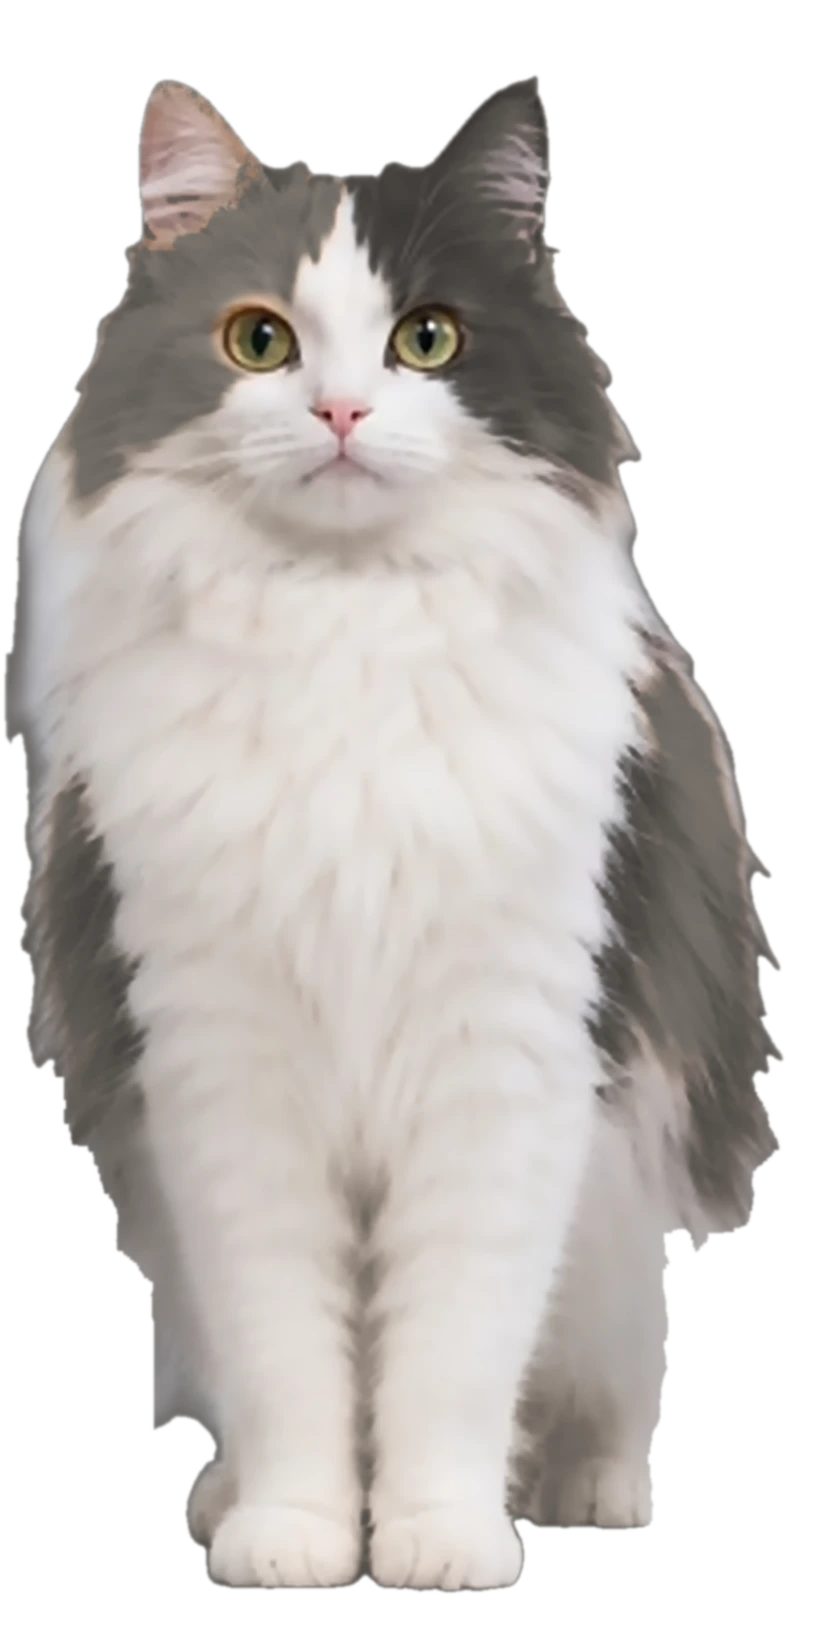
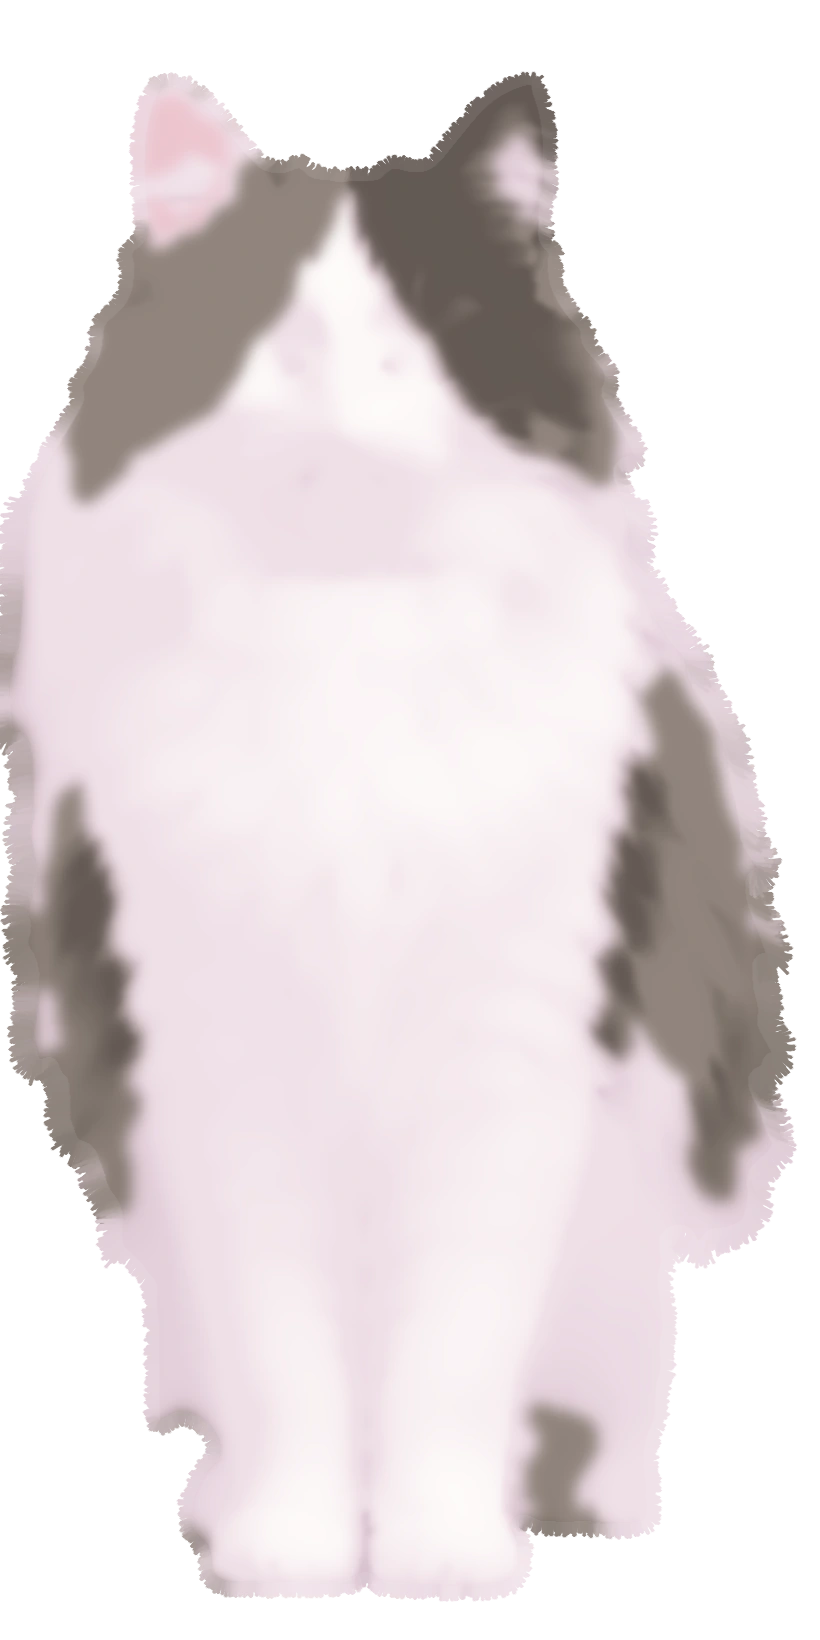
Playground: Ana in Tororo's painting style built from the reference's body and markings, Tororo Live2D face parts, side-swept fluffy tail
Claude-Session: https://claude.ai/code/session_01W4x6f7KtFbhsBZfqVxHVQA

diff --git a/william/tpl.html b/william/tpl.html
@@ -729,8 +729,15 @@ function anaH() { return catH * (stacked ? 1.0 : 1.3); }
 // 絵の座標（820×1640）：足もと (330, 1600)、首 (340, 600)、顔のまん中 (340, 365)、目 (258, 335) (425, 335)、口 (340, 452)、耳のつけ根 (190, 235) (500, 235)
 async function loadAna(app, william) {
 	try {
-		while (ANA.n < 1) await new Promise((r) => setTimeout(r, 100));
-		const im = ANA.img.ref, mesh = new PIXI.SimplePlane(PIXI.Texture.from(im), 21, 41), root = new PIXI.Container(); root.pivot.set(330, 1600); root.addChild(mesh);
+		while (ANA.n < 2) await new Promise((r) => setTimeout(r, 100));
+		const im = ANA.img.ref, mesh = new PIXI.SimplePlane(PIXI.Texture.from(im), 21, 41), root = new PIXI.Container(); root.pivot.set(330, 1600);
+		// しっぽ：Tororo と同じく 体のうしろから 横へ。べつの絵（ana_tail.webp）を 体のうしろに置き、網目を曲げて ゆらす
+		const tail = new PIXI.SimplePlane(PIXI.Texture.from(ANA.img.tail), 26, 2); tail.scale.set(0.78); tail.position.set(300 - 860 * 0.78, 1520 - 400 * 0.78); ANA.tailV = Float32Array.from(tail.geometry.getBuffer('aVertexPosition').data);
+		// 顔の部品（目・まぶた・目玉・口・舌・歯・鼻・ひげ）は Tororo と同じ Live2D の仕組み（public/w/ana.model3.json）
+		const face = await PIXI.live2d.Live2DModel.from('w/ana.model3.json', { autoInteract: false });
+		face.internalModel.motionManager.groups.idle = '__none__'; face.internalModel.on('beforeModelUpdate', () => anaParams(face.internalModel.coreModel));
+		face.pivot.set(ANA_FACE.em[0], ANA_FACE.em[1]); face.scale.set(ANA_FACE.s);
+		root.addChild(tail, mesh, face); Object.assign(ANA, { tail, face });
 		ANA.v0 = Float32Array.from(mesh.geometry.getBuffer('aVertexPosition').data);
 		// まぶたの色：目のすぐ上の毛の色を 絵から取る
 		const cv = document.createElement('canvas'); cv.width = im.width; cv.height = im.height; const cx = cv.getContext('2d'); cx.drawImage(im, 0, 0);
@@ -740,6 +747,14 @@ async function loadAna(app, william) {
 	} catch (e) { console.error(e); }
 }
 const sst = (a, b, v) => { const t = Math.max(0, Math.min(1, (v - a) / (b - a))); return t * t * (3 - 2 * t); };
+const ANA_FACE = { s: 0.80, em: [993, 755], ea: [341, 345] };  // 顔の部品の大きさ、Tororo の両目のまん中（モデル上）、絵の両目のまん中（make_face_tex.py と同じ）
+function anaParams(c) {
+	const P = ANA.P; if (!P) return; const set = (id, v) => c.setParameterValueById(id, v), add = (id, v) => c.addParameterValueById(id, v);
+	const eye = Math.max(0, 0.9 * (1 - P.lid) + P.up * 0.1); set('PARAM_EYE_L_OPEN', eye); set('PARAM_EYE_R_OPEN', eye);
+	set('PARAM_EYE_BALL_X', P.lx); set('PARAM_EYE_BALL_Y', -P.ly); add('PARAM_ANGLE_X', P.lx * 12); add('PARAM_ANGLE_Y', -P.ly * 9 + P.up * 6);
+	if (P.dip > 0.05) { set('PARAM_MOUTH_OPEN_Y', 0.08 + P.chew * 0.6); set('PARAM_MOUTH_FORM', 0.5); set('PARAM_TONGUE', P.chew * 0.4); }
+	if (P.lick > 0.05) { set('PARAM_MOUTH_OPEN_Y', 0.3 * P.lick); set('PARAM_MOUTH_FORM', 1); set('PARAM_TONGUE', P.lick); }
+}
 // 1 点を 今のパラメータで 変形する（網目の頂点にも、上に重ねる まぶた・口にも 同じ式を使う＝ずれない）
 function anaWarp(x, y, P) {
 	const wH = sst(690, 520, y);                                                     // 頭の重み（首より上が 1）
@@ -774,20 +789,18 @@ function drawAna(t) {
 	const tw = (t % 6100) / 260, tw2 = ((t + 2700) % 8300) / 260;
 	const P = { dip, up, lx: reduce ? 0 : sm('lx', (pointer.nx || 0) * 0.9, 5), ly: reduce ? 0 : sm('ly', (pointer.ny || 0) * 0.7, 5), br: reduce ? 0 : Math.sin(t / 1500), sway: reduce ? 0 : Math.sin(t / 4300) * 0.7 + Math.sin(t / 2700 + 1) * 0.3,
 		chew: dip * (0.5 - 0.5 * Math.cos(t / 105)), earL: tw < 1 ? Math.sin(tw * Math.PI) : 0, earR: tw2 < 1 ? Math.sin(tw2 * Math.PI) : 0 };
+	P.lid = lid; P.lick = lick; ANA.P = P;
 	ANA.root.position.set(sp.x, sp.y); ANA.root.scale.set(k);
+	{ const q = anaWarp(ANA_FACE.ea[0], ANA_FACE.ea[1], P); ANA.face.position.set(q[0], q[1]); ANA.face.rotation = P.sway * 0.03 + P.lx * 0.04 - P.dip * 0.07; }
+	{ const buf = ANA.tail.geometry.getBuffer('aVertexPosition'), d = buf.data, o = ANA.tailV, fast = sm('sFast', dip > 0.1 || up > 0.1 ? 1 : 0, 3), A = 0.035 + 0.05 * fast, w = t / (1100 - 650 * fast);
+	  for (let i = 0; i < d.length; i += 2) { const u = Math.max(0, Math.min(1, (860 - o[i]) / 700)), a = reduce ? 0 : A * Math.sin(w - u * 2.6) * Math.pow(u, 1.2), dx = o[i] - 860, dy = o[i + 1] - 400, cs = Math.cos(a), sn = Math.sin(a); d[i] = 860 + dx * cs - dy * sn; d[i + 1] = 400 + dx * sn + dy * cs; }
+	  buf.update(); }
 	{ const buf = ANA.mesh.geometry.getBuffer('aVertexPosition'), d = buf.data, o = ANA.v0; for (let i = 0; i < d.length; i += 2) { const q = anaWarp(o[i], o[i + 1], P); d[i] = q[0]; d[i + 1] = q[1]; } buf.update(); }
 	c.save(); c.translate(sp.x, sp.y);
 	c.fillStyle = 'rgba(60,30,40,.26)'; c.beginPath(); c.ellipse(0, 2, h * 0.3, h * 0.03, 0, 0, Math.PI * 2); c.fill();
 	c.scale(k, k); c.translate(-330, -1600);
-	// まばたき：まぶた（目のすぐ上の毛の色）が 上から下りる。位置は 網目と同じ式で 変形する
-	if (lid > 0.03) [[258, 335], [425, 335]].forEach(([ex, ey], i) => { const q = anaWarp(ex, ey, P); c.save(); c.translate(q[0], q[1]); c.beginPath(); c.ellipse(0, 0, 41, 37, 0, 0, Math.PI * 2); c.clip();
-		const ly = -38 + lid * 78; c.fillStyle = ANA.lidCol[i]; c.fillRect(-44, -40, 88, ly + 40); c.strokeStyle = 'rgba(60,50,46,.75)'; c.lineWidth = 4; c.beginPath(); c.moveTo(-44, ly - 5); c.quadraticCurveTo(0, ly + 7, 44, ly - 5); c.stroke(); c.restore(); });
-	// 口：食べるときは あけて もぐもぐ、ぺろっ は 舌
-	{ const q = anaWarp(340, 452, P), m = P.chew;
-	  if (m > 0.06) { c.fillStyle = '#8a3a48'; c.beginPath(); c.ellipse(q[0], q[1] + 6 + m * 8, 16 + m * 6, 3 + m * 17, 0, 0, Math.PI * 2); c.fill(); c.fillStyle = '#ee9aa6'; c.beginPath(); c.ellipse(q[0], q[1] + 12 + m * 14, 10, 2 + m * 8, 0, 0, Math.PI * 2); c.fill(); }
-	  else if (lick > 0.05) { c.fillStyle = '#ee9aa6'; c.strokeStyle = '#d27a88'; c.lineWidth = 1.5; c.beginPath(); c.moveTo(q[0] - 11, q[1] + 2); c.quadraticCurveTo(q[0] - 13, q[1] + 2 + lick * 26, q[0], q[1] + 4 + lick * 30); c.quadraticCurveTo(q[0] + 13, q[1] + 2 + lick * 26, q[0] + 11, q[1] + 2); c.closePath(); c.fill(); c.stroke(); } }
 	// ごはんのおさら（体の左まえ）
-	{ const bx = 0, by = 0; c.save(); c.translate(40, 1585); c.scale(2.9, 2.9); c.fillStyle = '#d9c7b0'; c.beginPath(); c.ellipse(bx, by + 6, 46, 11, 0, 0, Math.PI * 2); c.fill();
+	{ const bx = 0, by = 0; c.save(); c.translate(650, 1588); c.scale(2.6, 2.6); c.fillStyle = '#d9c7b0'; c.beginPath(); c.ellipse(bx, by + 6, 46, 11, 0, 0, Math.PI * 2); c.fill();
 	  c.fillStyle = '#f4ead9'; c.beginPath(); c.moveTo(bx - 46, by - 4); c.quadraticCurveTo(bx - 40, by + 16, bx, by + 16); c.quadraticCurveTo(bx + 40, by + 16, bx + 46, by - 4); c.closePath(); c.fill();
 	  c.fillStyle = '#e3d3bb'; c.beginPath(); c.ellipse(bx, by - 4, 46, 10, 0, 0, Math.PI * 2); c.fill();
 	  if (ANA.food > 0.02) { c.save(); c.beginPath(); c.ellipse(bx, by - 4, 42, 8.5, 0, 0, Math.PI * 2); c.clip(); const n = Math.ceil(26 * ANA.food); for (let i = 0; i < n; i++) { const a = i * 2.39996, r = Math.sqrt((i + 0.5) / 26); c.fillStyle = i % 3 ? '#a86f3e' : '#8f5a30'; c.beginPath(); c.ellipse(bx + Math.cos(a) * r * 38, by - 5 + Math.sin(a) * r * 7 - ANA.food * 3, 5.5, 4, 0, 0, Math.PI * 2); c.fill(); } c.restore(); }

diff --git a/william/ana/make_ref.py b/william/ana/make_ref.py
@@ -30,11 +30,66 @@ keep = cv2.GaussianBlur(keep, (0, 0), 5); earin = ((yy < 250) & (Hh < 12) | (Hh 
 w = cv2.GaussianBlur(w * (1 - keep) * (1 - earin.astype(np.float32) * 0.8), (0, 0), 1.2)
 L = 58 + Vv * 0.30                                                      # 明るい オレンジ → 中くらいの灰色、黒 → こい灰色
 grey = np.dstack([L * 0.90, L * 0.95, L * 1.0])                         # BGR：少し あたたかい灰色
-out = bgr.astype(np.float32) * (1 - w[..., None]) + grey * w[..., None]
-res = np.dstack([out.clip(0, 255).astype(np.uint8), a])
+# ---------- ここから Tororo の画法に直す（参考にするのは 体型と 模様の位置だけ） ----------
+#   線なし／エアブラシのように なめらかな塗り／白い毛の影は うすいピンク／模様は ふちが ぼけた塗り／ふちは 細い短い毛
+import math
+rng = np.random.RandomState(3)
+WHITE = np.array([251, 253, 255], np.float32); SHADOW = np.array([232, 224, 240], np.float32); GREY = np.array([124, 132, 144], np.float32); DARK = np.array([84, 90, 100], np.float32)   # BGR
+def ss(a_, b_, v): t = np.clip((v - a_) / (b_ - a_), 0, 1); return t * t * (3 - 2 * t)
+# 顔の部品（目・鼻・口）は Tororo の Live2D の部品に置きかえるので、絵からは消す
+fm = np.zeros((H, W), np.uint8)
+for (cx, cy, rx, ry) in [(258, 335, 52, 46), (425, 335, 52, 46), (340, 430, 50, 56)]: cv2.ellipse(fm, (cx, cy), (rx, ry), 0, 0, 360, 255, -1)
+# 輪郭の外へ 中の色を のばしておく（ぼかしたときに 背景の色が ふちに まざらないように）
+inside = (a > 200).astype(np.uint8); _, lab2 = cv2.distanceTransformWithLabels(1 - inside, cv2.DIST_L2, 5, labelType=cv2.DIST_LABEL_PIXEL)
+lut = np.zeros((lab2.max() + 1, 2), np.int32); lut[lab2[inside > 0]] = np.argwhere(inside > 0); bgr = bgr[lut[lab2][..., 0], lut[lab2][..., 1]]; w = w[lut[lab2][..., 0], lut[lab2][..., 1]]
+bgr2 = cv2.inpaint(bgr, fm, 12, cv2.INPAINT_TELEA); w2 = cv2.inpaint((w * 255).astype(np.uint8), fm, 12, cv2.INPAINT_TELEA).astype(np.float32) / 255
+w2[(yy > 1150) & (xx > 285) & (xx < 395)] = 0                             # 前足のあいだは 模様ではなく 影
+w2[(yy > 1380) & (xx > 395) & (xx < 520)] = 0                             # うしろ足の影も 模様にしない
+V2 = cv2.cvtColor(bgr2, cv2.COLOR_BGR2HSV)[..., 2].astype(np.float32)
+Vs = cv2.GaussianBlur(cv2.edgePreservingFilter(cv2.cvtColor(V2.astype(np.uint8), cv2.COLOR_GRAY2BGR), flags=1, sigma_s=18, sigma_r=0.22)[..., 0].astype(np.float32), (0, 0), 3)   # 明るさ：大きな面だけ残す
+gm = cv2.GaussianBlur((cv2.GaussianBlur(w2, (0, 0), 6) > 0.5).astype(np.float32), (0, 0), 7)                     # 灰色の模様（ふちを ぼかす）
+kw = ss(196, 247, Vs)[..., None]; k0 = ss(110, 196, Vs)[..., None]; kg = ss(70, 150, Vs)[..., None]   # 白い毛：明るい所は白、かげは うすいピンク、深いかげ（足のあいだ・あごの下）は 少し こいピンク
+DEEP = np.array([206, 194, 216], np.float32); whitec = (DEEP * (1 - k0) + SHADOW * k0) * (1 - kw) + WHITE * kw; greyc = DARK * (1 - kg) + GREY * kg
+out = whitec * (1 - gm[..., None]) + greyc * gm[..., None]
+# 耳の中の ピンク
+ear = cv2.GaussianBlur(cv2.erode((earin & (a > 128)).astype(np.uint8), np.ones((9, 9), np.uint8)).astype(np.float32), (0, 0), 7)[..., None]; out = out * (1 - ear * 0.7) + np.array([196, 186, 236], np.float32) * ear * 0.7
+out = cv2.GaussianBlur(out, (0, 0), 2)
+# 輪郭：なめらかにして、細い短い毛を 外へ（胸の両わきと 体のわきは 少し長く）
+m = (cv2.GaussianBlur(a, (0, 0), 5) > 128).astype(np.uint8); a = (np.clip(cv2.GaussianBlur(m.astype(np.float32), (0, 0), 1.6) * 2 - 0.5, 0, 1) * 255).astype(np.uint8)
+def fuzz(rgb, al, mask, col, length):
+    din = cv2.GaussianBlur(cv2.distanceTransform(mask, cv2.DIST_L2, 5), (0, 0), 3); gx, gy = cv2.Sobel(din, cv2.CV_32F, 1, 0), cv2.Sobel(din, cv2.CV_32F, 0, 1)
+    cs, _ = cv2.findContours(mask, cv2.RETR_EXTERNAL, cv2.CHAIN_APPROX_NONE)
+    for c in cs:
+        for (x, y) in c[:, 0]:
+            L0 = length(x, y)
+            for _ in range(2 if L0 > 12 else 1):
+                nx, ny = -gx[y, x], -gy[y, x]; d = math.hypot(nx, ny) + 1e-6; ang = math.atan2(ny / d, nx / d) + rng.uniform(-0.55, 0.55); ang += 0.5 * (1 if (math.pi / 2 - ang + math.pi) % (2 * math.pi) - math.pi > 0 else -1) * min(1, L0 / 24)
+                L = L0 * rng.uniform(0.35, 1.0); sx0, sy0 = x - nx / d * 3, y - ny / d * 3
+                pp = (np.array([[sx0, sy0], [sx0 + math.cos(ang) * L * 0.6, sy0 + math.sin(ang) * L * 0.6], [x + math.cos(ang) * L, y + math.sin(ang) * L + L * 0.06]]) * 8).astype(np.int32)
+                c3 = tuple(float(v) for v in col[int(np.clip(sy0, 0, col.shape[0] - 1)), int(np.clip(sx0, 0, col.shape[1] - 1))].clip(0, 255))
+                cv2.polylines(rgb, [pp], False, c3, 2, cv2.LINE_AA, 3); cv2.polylines(al, [pp], False, 235, 2, cv2.LINE_AA, 3)
+rgb = np.ascontiguousarray(out.clip(0, 255).astype(np.uint8)); al = np.ascontiguousarray(a)
+fuzz(rgb, al, m, out, lambda x, y: 22 if 500 < y < 1250 else 10)
+res = np.dstack([rgb, al]); out = rgb.astype(np.float32); a = al
 from PIL import Image
-Image.fromarray(cv2.cvtColor(res, cv2.COLOR_BGRA2RGBA)).save(os.path.join(ROOT, 'william', 'assets', 'ana_ref.webp'), quality=92, method=6)
+Image.fromarray(cv2.cvtColor(res, cv2.COLOR_BGRA2RGBA)).save(os.path.join(ROOT, 'william', 'assets', 'ana_ref.webp'), quality=93, method=6)
+
+# ---------- しっぽ（Tororo と同じく、体のうしろから 横へ 床にそって 甩る。長毛なので 太く ふさふさ） ----------
+TW, TH, OX = 900, 520, 560                                             # しっぽの絵の大きさ。絵の x = 体の絵の x + OX、y = 体の絵の y - 1120
+tm = np.zeros((TH, TW), np.uint8); sp = []
+for s_ in np.linspace(0, 1, 220):
+    u = 1 - s_; x = u * u * (300 + OX) + 2 * u * s_ * (-40 + OX) + s_ * s_ * (-430 + OX); y = u * u * 400 + 2 * u * s_ * 500 + s_ * s_ * 250
+    sp.append((x, y)); cv2.circle(tm, (int(x), int(y)), int(46 + 58 * math.sin(math.pi * min(1, 0.12 + s_ * 0.92)) ** 0.7), 1, -1)
+ty, tx = np.mgrid[0:TH, 0:TW].astype(np.float32); hgt = np.zeros((TH, TW), np.float32)
+for (x, y) in sp[::10]: hgt = np.maximum(hgt, np.sqrt(np.clip(1 - ((tx - x) / 90) ** 2 - ((ty - y) / 90) ** 2, 0, 1)))
+hs = cv2.GaussianBlur(hgt.astype(np.float32), (0, 0), 14); lit = ss(-0.004, 0.006, (cv2.Sobel(hs, cv2.CV_32F, 0, 1, ksize=5) / 48) * 0.7 + (cv2.Sobel(hs, cv2.CV_32F, 1, 0, ksize=5) / 48) * 0.3)[..., None]   # 上が明るい
+tcol = cv2.GaussianBlur((np.array([70, 74, 82], np.float32) * (1 - lit) + np.array([116, 122, 132], np.float32) * lit), (0, 0), 3)
+trgb = np.ascontiguousarray(tcol.clip(0, 255).astype(np.uint8)); tal = np.ascontiguousarray((np.clip(cv2.GaussianBlur(tm.astype(np.float32), (0, 0), 1.6) * 2 - 0.5, 0, 1) * 255).astype(np.uint8))
+fuzz(trgb, tal, tm, tcol, lambda x, y: 26)
+Image.fromarray(cv2.cvtColor(np.dstack([trgb, tal]), cv2.COLOR_BGRA2RGBA)).save(os.path.join(ROOT, 'william', 'assets', 'ana_tail.webp'), quality=93, method=6)
 if len(sys.argv) > 1:
-    k = a[..., None].astype(np.float32) / 255; comp = (np.zeros((H, W, 3), np.float32) + (150, 170, 196)) * (1 - k) + out * k
-    cv2.imwrite(os.path.join(sys.argv[1], 'ana_ref_preview.jpg'), cv2.resize(comp.astype(np.uint8), (W * 3 // 5, H * 3 // 5)))
+    comp = np.zeros((H, W + OX, 3), np.float32) + (150, 170, 196)
+    k = tal[..., None].astype(np.float32) / 255; comp[1120:1120 + TH, 0:TW] = comp[1120:1120 + TH, 0:TW] * (1 - k) + trgb * k
+    k = a[..., None].astype(np.float32) / 255; comp[:, OX:] = comp[:, OX:] * (1 - k) + out * k
+    cv2.imwrite(os.path.join(sys.argv[1], 'ana_ref_preview.jpg'), cv2.resize(comp.astype(np.uint8), ((W + OX) * 3 // 5, H * 3 // 5)))
 print('ok', W, H)

diff --git a/william/ana/make_face_tex.py b/william/ana/make_face_tex.py
@@ -1,0 +1,39 @@
+# アナちゃんの「顔の部品」用テクスチャ：Tororo（William）のテクスチャから、顔の部品（目・まぶた・目玉・口・舌・歯・鼻・ひげ）だけを残す
+# 使い方: python3 william/ana/make_face_tex.py   → public/w/ana.2048/texture_00.png
+# 体・足・しっぽ・胸・顔の土台・耳は 透明にする（アナちゃんの絵を 別に描いているので）。顔の部品は Tororo と同じ Live2D の仕組みで動く
+import os, numpy as np, cv2
+ROOT = os.path.dirname(os.path.dirname(os.path.dirname(os.path.abspath(__file__))))
+t = cv2.imread(os.path.join(ROOT, 'public', 'w', 'tororo.2048', 'texture_00.png'), cv2.IMREAD_UNCHANGED)
+a = t[..., 3]
+a[:1085, :] = 0                     # せなか・足・顔の土台・胸の上
+a[1085:1470, :445] = 0              # 足先
+a[590:1462, 1375:] = 0              # 胸
+def drop_components(x0, y0, x1, y1, pred):
+    reg = a[y0:y1, x0:x1]; n, lab, st, _ = cv2.connectedComponentsWithStats((reg > 8).astype(np.uint8))
+    for i in range(1, n):
+        if pred(st[i]): reg[lab == i] = 0
+drop_components(410, 1085, 1400, 1390, lambda s: s[cv2.CC_STAT_AREA] > 20000)                 # しっぽ（大きい かたまり）
+drop_components(1235, 1415, 2040, 2040, lambda s: s[cv2.CC_STAT_TOP] < 560 - 0 and s[cv2.CC_STAT_AREA] > 3000 and s[cv2.CC_STAT_TOP] + 1415 < 1960)   # 耳
+# 目のまわりの皮（まぶた。D_EYE_02〜05）：その場所の アナちゃんの顔の色を そのまま写す（顔の土台と まぶたが 同じ色で つながる）
+#   face_rims.json = まぶたの網目（テクスチャ上の位置 uv と、モデル上の位置 pos）。モデル上の位置 → アナちゃんの絵の座標 → 頭の絵の色
+import json
+from PIL import Image
+FS, EM, EA = 0.80, (993.0, 755.0), (341.0, 345.0)                      # 大きさ、Tororo の 両目のまん中（モデル上）、アナちゃんの絵の 両目のまん中（tpl.html の ANA_FACE と同じ）
+rims = json.load(open(os.path.join(ROOT, 'william', 'ana', 'face_rims.json'))); cv_ = rims['canvas']
+head = np.array(Image.open(os.path.join(ROOT, 'william', 'assets', 'ana_ref.webp')).convert('RGBA'))[..., [2, 1, 0, 3]].astype(np.float32)
+hrgb = cv2.GaussianBlur(head[..., :3], (0, 0), 2)
+for part in rims['parts']:
+    uv = np.array(part['uv'], np.float32).reshape(-1, 2); pos = np.array(part['pos'], np.float32).reshape(-1, 2)
+    tx = np.stack([uv[:, 0] * 2048, (1 - uv[:, 1]) * 2048], 1)                                             # テクスチャ上
+    mx = np.stack([pos[:, 0] * cv_['ppu'] + cv_['ox'], -pos[:, 1] * cv_['ppu'] + cv_['oy']], 1)            # モデル上（画素）
+    art = np.stack([EA[0] + (mx[:, 0] - EM[0]) * FS, EA[1] + (mx[:, 1] - EM[1]) * FS], 1).astype(np.float32)   # アナちゃんの絵の座標
+    for k in range(0, len(part['idx']), 3):
+        ii = part['idx'][k:k + 3]; T = cv2.getAffineTransform(tx[ii], art[ii])                             # テクスチャ → 絵
+        x0, y0 = np.floor(tx[ii].min(axis=0)).astype(int) - 1; x1, y1 = np.ceil(tx[ii].max(axis=0)).astype(int) + 2
+        m = np.zeros((y1 - y0, x1 - x0), np.uint8); cv2.fillConvexPoly(m, np.round(tx[ii] - [x0, y0]).astype(np.int32), 255); m = cv2.dilate(m, np.ones((3, 3), np.uint8))
+        gy, gx = np.mgrid[y0:y1, x0:x1].astype(np.float32); ax = T[0, 0] * gx + T[0, 1] * gy + T[0, 2]; ay = T[1, 0] * gx + T[1, 1] * gy + T[1, 2]
+        smp = cv2.remap(hrgb, ax.astype(np.float32), ay.astype(np.float32), cv2.INTER_LINEAR, borderMode=cv2.BORDER_REPLICATE)
+        reg = t[y0:y1, x0:x1]; sel = (m > 0) & (reg[..., 3] > 0); reg[sel, :3] = smp[sel].clip(0, 255).astype(np.uint8)
+os.makedirs(os.path.join(ROOT, 'public', 'w', 'ana.2048'), exist_ok=True)
+cv2.imwrite(os.path.join(ROOT, 'public', 'w', 'ana.2048', 'texture_00.png'), t, [cv2.IMWRITE_PNG_COMPRESSION, 9])
+print('ok')

diff --git a/william/build.py b/william/build.py
@@ -78,7 +78,7 @@ def main():
             '<style>body{margin:0}img{max-width:100%}[hidden]{display:none!important}</style>\n')
     out = head + s[:i] + '\n</head>\n<body>\n' + s[i:] + '\n</body>\n</html>\n'
     # playground.html：試し中の機能（アナちゃん）を入れたページ。本番（index.html）には出さない
-    open(os.path.join(ROOT, 'public', 'playground.html'), 'w', encoding='utf-8').write(out.replace('__PLAY__', 'true').replace('__ANA__', json.dumps({k: data_uri('ana_' + k + '.webp') for k in ('ref',)})).replace('<title>', '<title>[playground] ', 1))
+    open(os.path.join(ROOT, 'public', 'playground.html'), 'w', encoding='utf-8').write(out.replace('__PLAY__', 'true').replace('__ANA__', json.dumps({k: data_uri('ana_' + k + '.webp') for k in ('ref', 'tail')})).replace('<title>', '<title>[playground] ', 1))
     out = out.replace('__PLAY__', 'false').replace('__ANA__', '{}')
     open(os.path.join(ROOT, 'public', 'index.html'), 'w', encoding='utf-8').write(out)
     print('public/index.html', len(out) // 1024, 'KB')

diff --git a/william/ana/README.md b/william/ana/README.md
@@ -1,25 +1,18 @@
 # アナちゃん（playground）
 
-ベースの絵は 1 枚：お手本の設定画の「正面で立つ猫」を そのまま使い、**毛の色だけ** アナちゃんの色（白＋こい あたたかい灰色）に変えたもの。
-顔の見え方・顔のパーツの位置・体型・毛の質感は お手本のまま。
+お手本の設定画（長毛の猫の三面図）は **参考**。使うのは 体型と 模様の位置だけ。**絵柄と動きは Tororo（William）と同じ**にする。
 
 - `ref_front_cut.png`：設定画から 正面の猫を切り出して 4 倍に拡大し、背景を消したもの（820×1640）
-- `make_ref.py`：オレンジと黒の ぶち → 灰色、首輪を消す、背景の残りを消す → `william/assets/ana_ref.webp`
-- `tpl.html` の `loadAna` / `anaWarp` / `drawAna`：Live2D と同じ考え方で動かす。絵に 網目（21×41）を張り、頂点を パラメータで変形させる
-  - 顔の向き X/Y（頭の輪郭より 顔のまん中が 多く動く＝回って見える）、頭のかたむき、呼吸、耳（おくれて動く・ぴくっ）、うなずき（食べる）
-  - まばたき（目のすぐ上の毛の色の まぶたが 下りる）、口（もぐもぐ）、舌（ぺろっ）は 上に重ねて描く。位置は 網目と同じ式で変形するので ずれない
-- 作り直し：`python3 william/ana/make_ref.py` → `npm run build`
-
-## 試して分かったこと（1 枚の絵に Live2D の動きを載せる）
-
-| 動き | できたか |
-|---|---|
-| 呼吸、頭のかたむき、顔の向き（左右・上下）、うなずき | できた（網目の変形） |
-| 耳の動き | できた（網目の変形。大きく動かすと 絵がのびる） |
-| まばたき、口、舌 | できた（上に重ねて描く） |
-| 目玉が ポインターを追う | まだ（目が 絵に入っているので、目玉を 別の部品にする必要がある） |
-| しっぽ | まだ（正面の絵に しっぽが写っていない。設定画の うしろ向きの絵から 部品を作る必要がある） |
-| 大きく横を向く・歩く | できない（かくれている所の絵がない。設定画の 横向き・うしろ向きを 別の絵として切り替える方法になる） |
-
-本式の Live2D（moc3）にする工程（部品分け → PSD → Cubism Editor）は GMO の記事を参照：
-https://recruit.group.gmo/engineer/jisedai/blog/see-through-x-kaggle-x-claude-code/
+- `make_ref.py`：
+  1. 毛の色を アナちゃんの色（白＋こい あたたかい灰色）に。首輪は消す
+  2. Tororo の画法に直す：線なし／エアブラシのように なめらかな塗り／白い毛の影は うすいピンク／模様は ふちが ぼけた塗り／ふちは 細い短い毛
+  3. 顔の部品（目・鼻・口）は 絵から消す（Tororo の Live2D の部品に置きかえる）
+  4. しっぽ：Tororo と同じく 体のうしろから 横へ 甩る。長毛なので 太く ふさふさ
+  → `william/assets/ana_ref.webp`、`ana_tail.webp`
+- `make_face_tex.py`：Tororo のテクスチャから 顔の部品（目・まぶた・目玉・口・舌・歯・鼻・ひげ）だけを残す（`public/w/ana.2048/`、モデルは `public/w/ana.model3.json`）。
+  まぶたの色は、その場所の アナちゃんの絵の色を写す（網目は `face_rims.json`）
+- `tpl.html` の `loadAna` / `anaWarp` / `anaParams` / `drawAna`：
+  - 体は 絵に 網目（21×41）を張って 変形させる（呼吸、頭のかたむき、顔の向き、耳、うなずき）
+  - 顔は Tororo と同じ Live2D の仕組み（まばたき、目玉、顔の向き、口、舌）。位置は 網目と同じ式で動かすので ずれない
+  - しっぽは 網目を曲げて、つけ根から先へ 波が伝わるように ゆらす
+- 作り直し：`python3 william/ana/make_ref.py` → `python3 william/ana/make_face_tex.py` → `npm run build`
